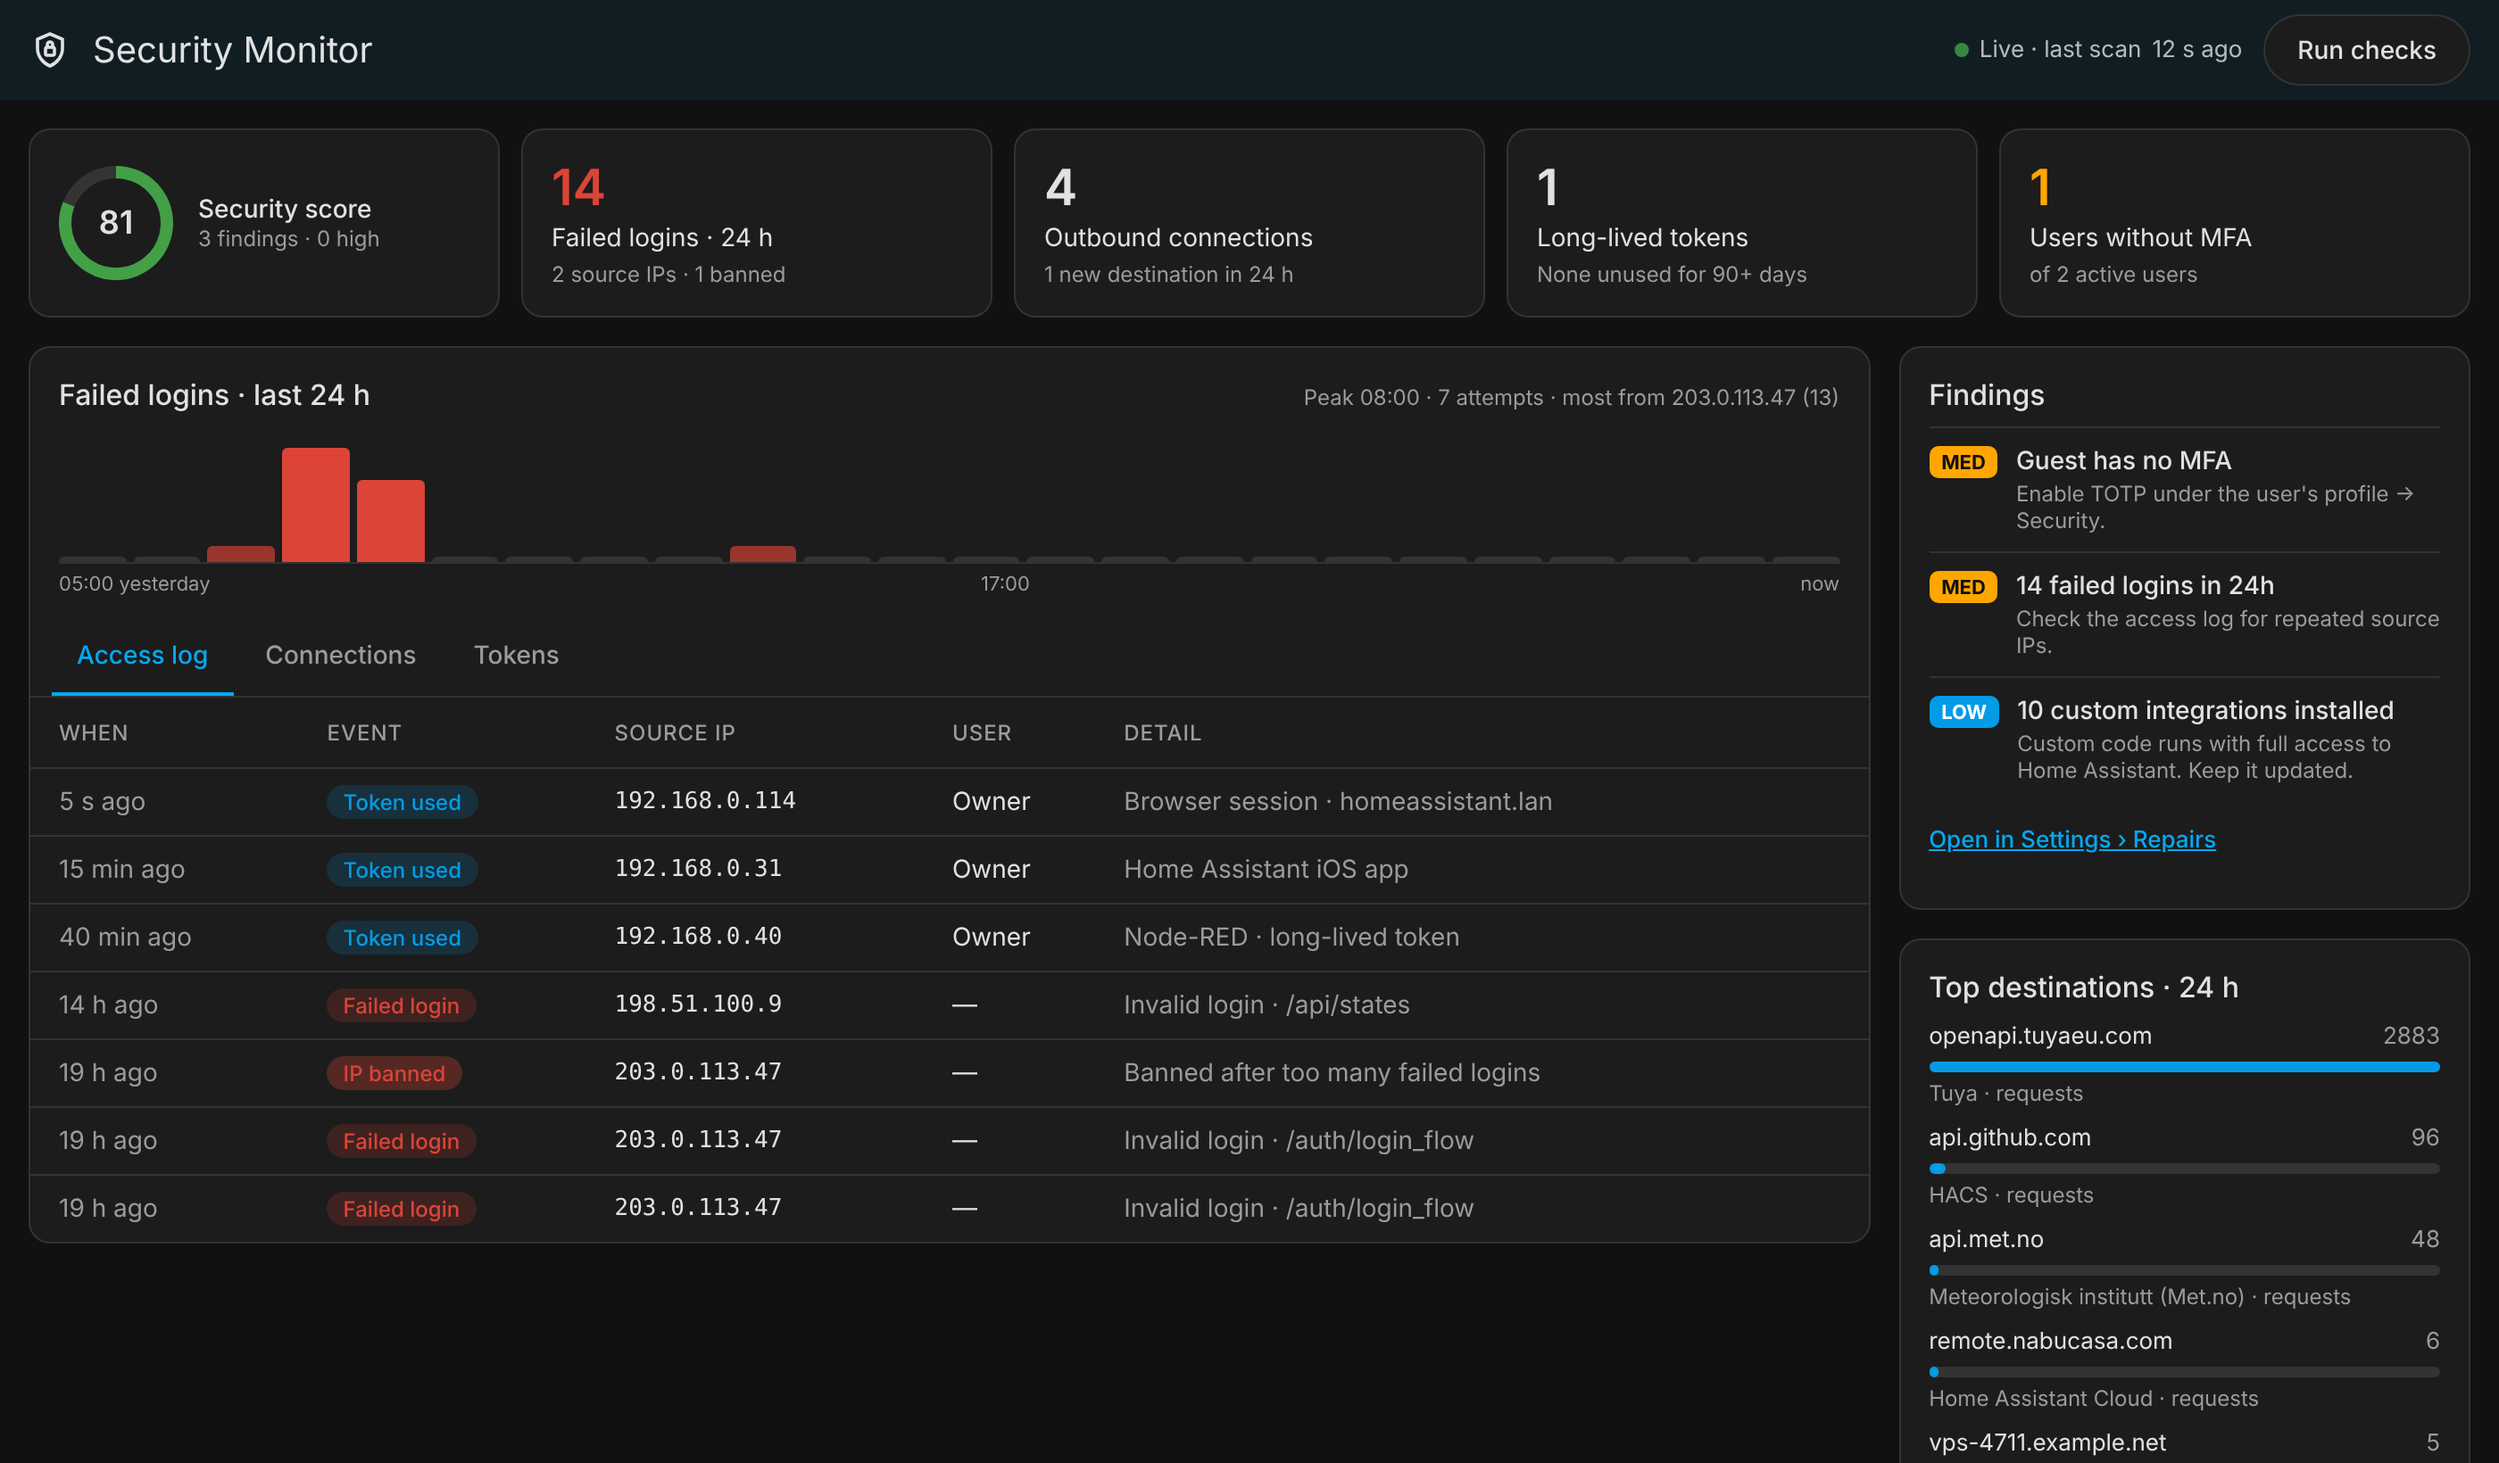
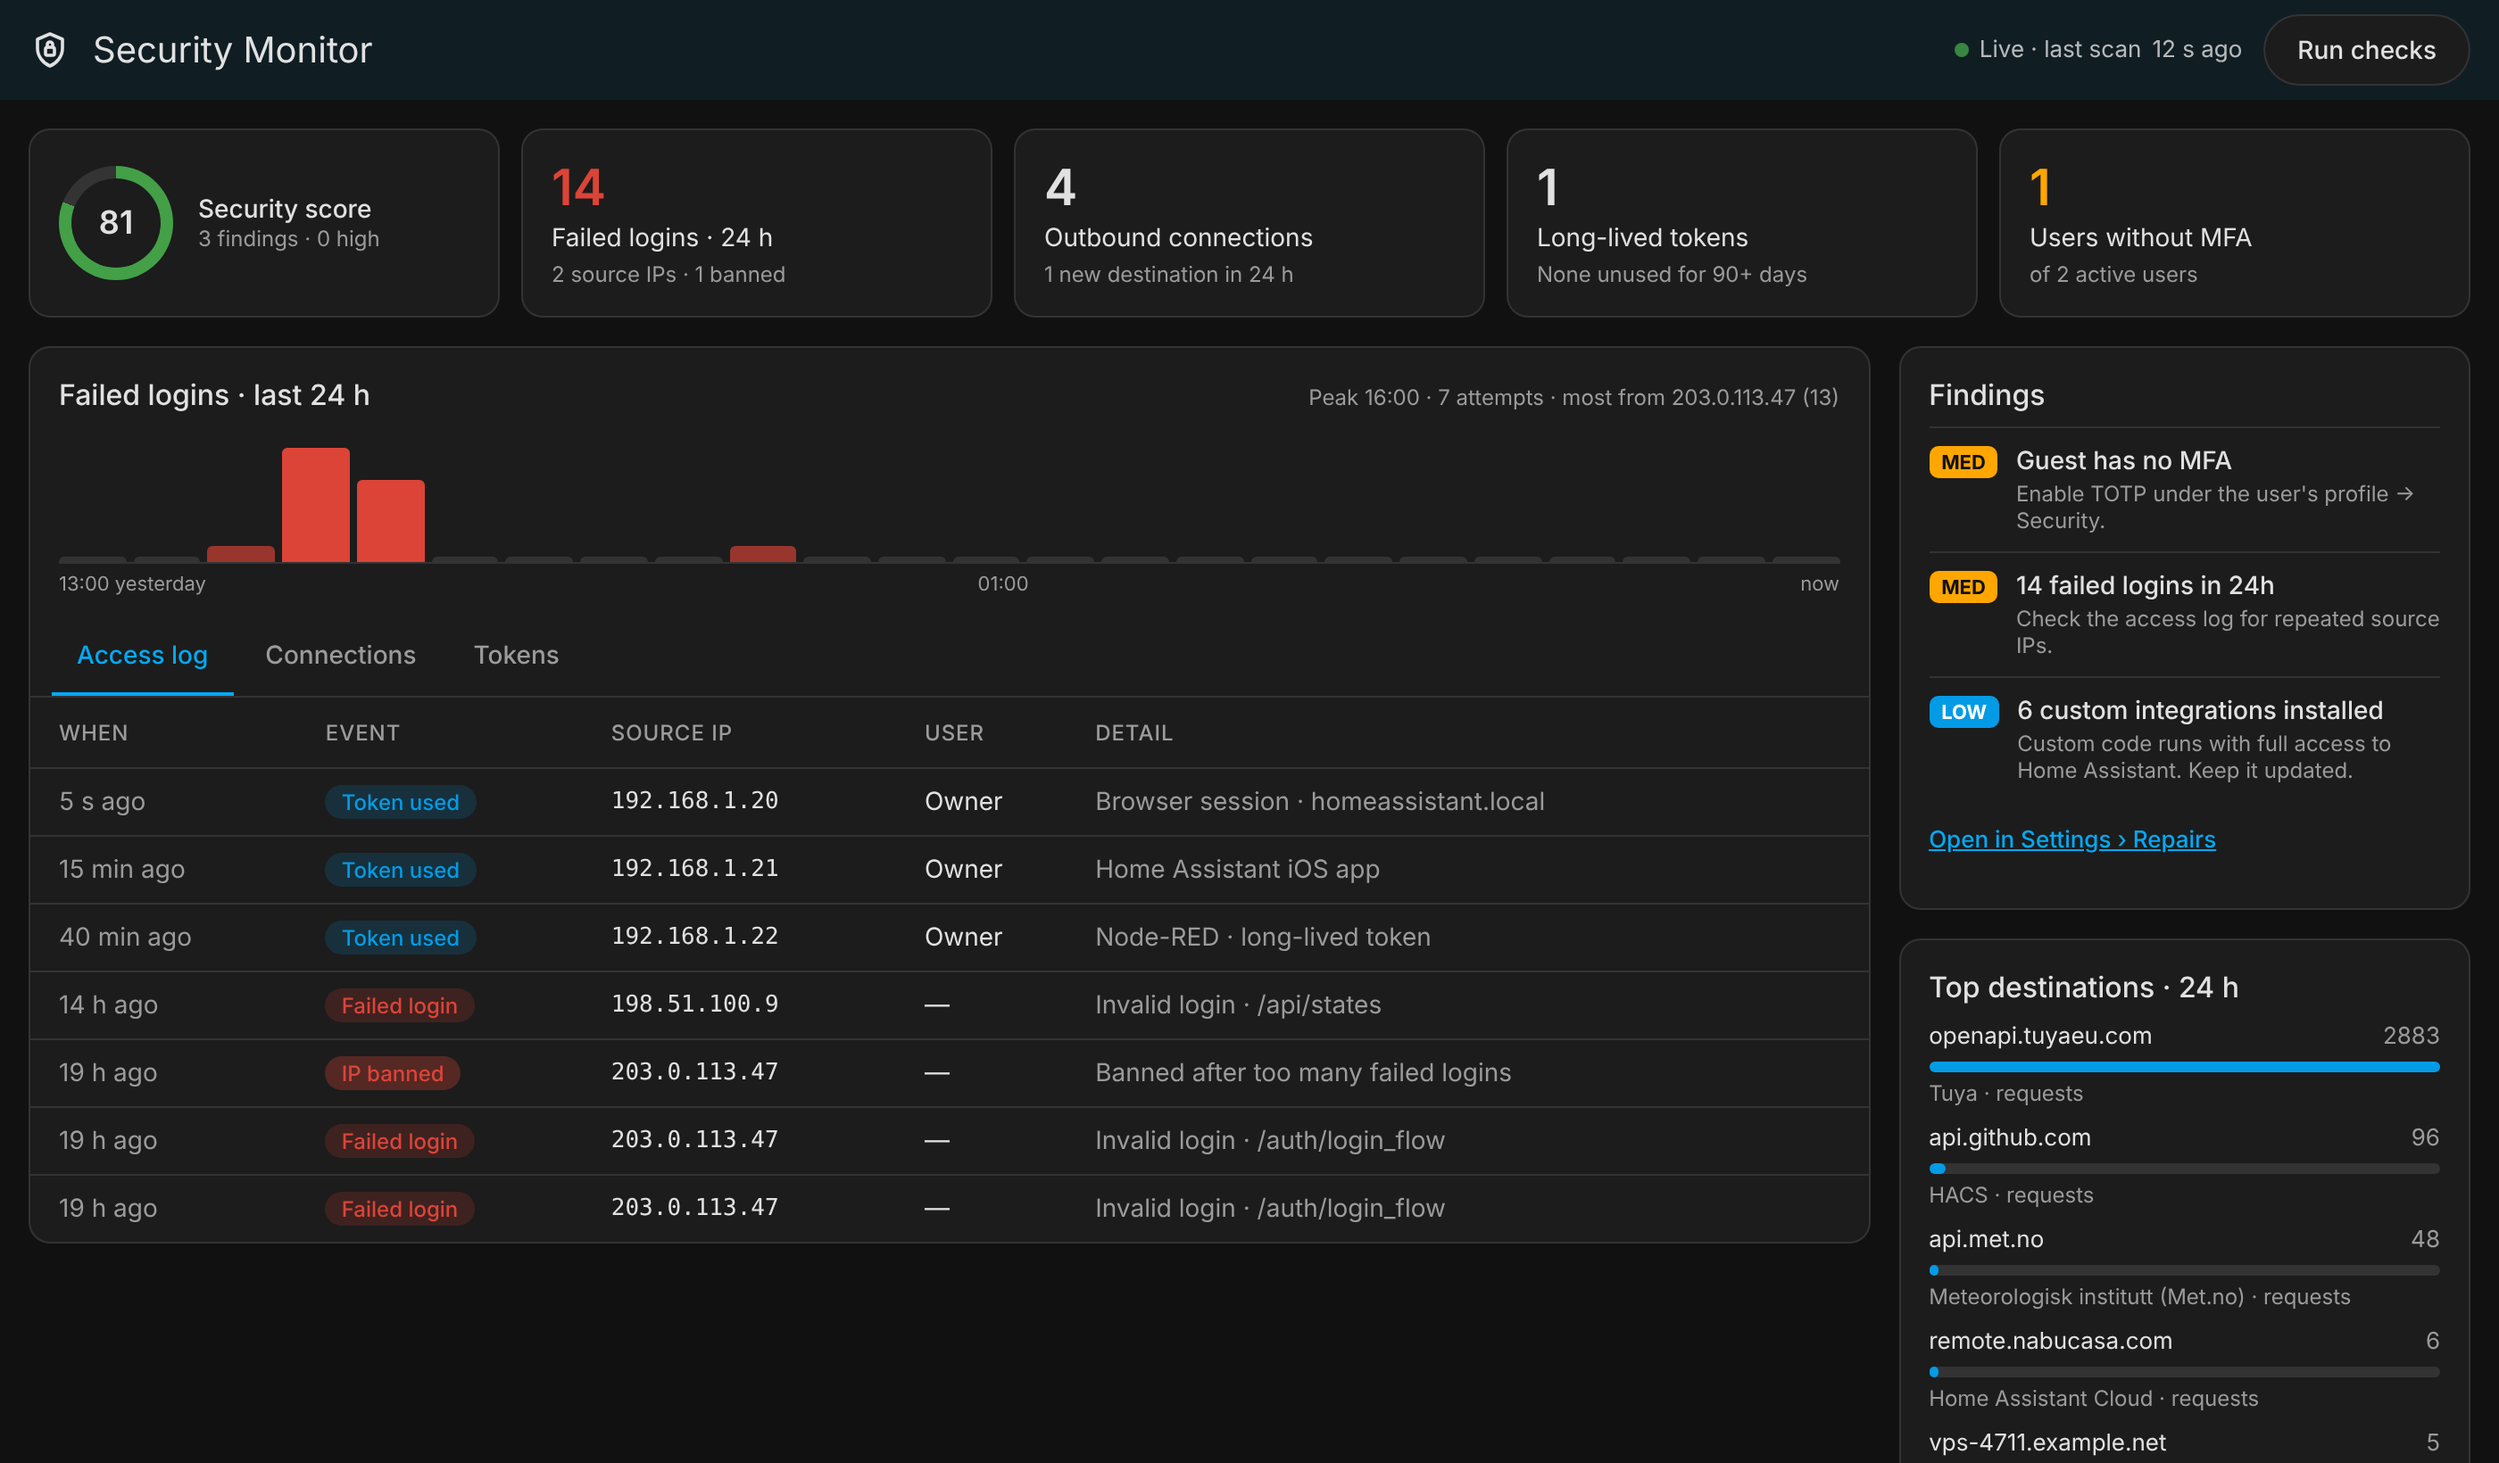
Remove data from the maintainer's own instance
- Screenshots: re-rendered with neutral sample data. The access log
  showed a real LAN IP and the instance's hostname, and the findings a
  real custom-integration count.
- Panel code comment: example hostname is now homeassistant.local
- Docker test setup: default time zone UTC instead of a personal one

Claude-Session: https://claude.ai/code/session_01A4WxsJHtchbZ62AkhGdSiS

diff --git a/custom_components/security_monitor/frontend/security-monitor-panel.js b/custom_components/security_monitor/frontend/security-monitor-panel.js
@@ -32,7 +32,7 @@ const APP_CLIENTS = {
 };
 
 // Human label for a token's client.
-//   http://homeassistant.lan:8123/ + session → "Browser session · homeassistant.lan"
+//   http://homeassistant.local:8123/ + session → "Browser session · homeassistant.local"
 //   https://home-assistant.io/iOS            → "Home Assistant iOS app"
 //   Node-RED + long-lived                    → "Node-RED · long-lived token"
 const prettyClient = (client, type) => {
